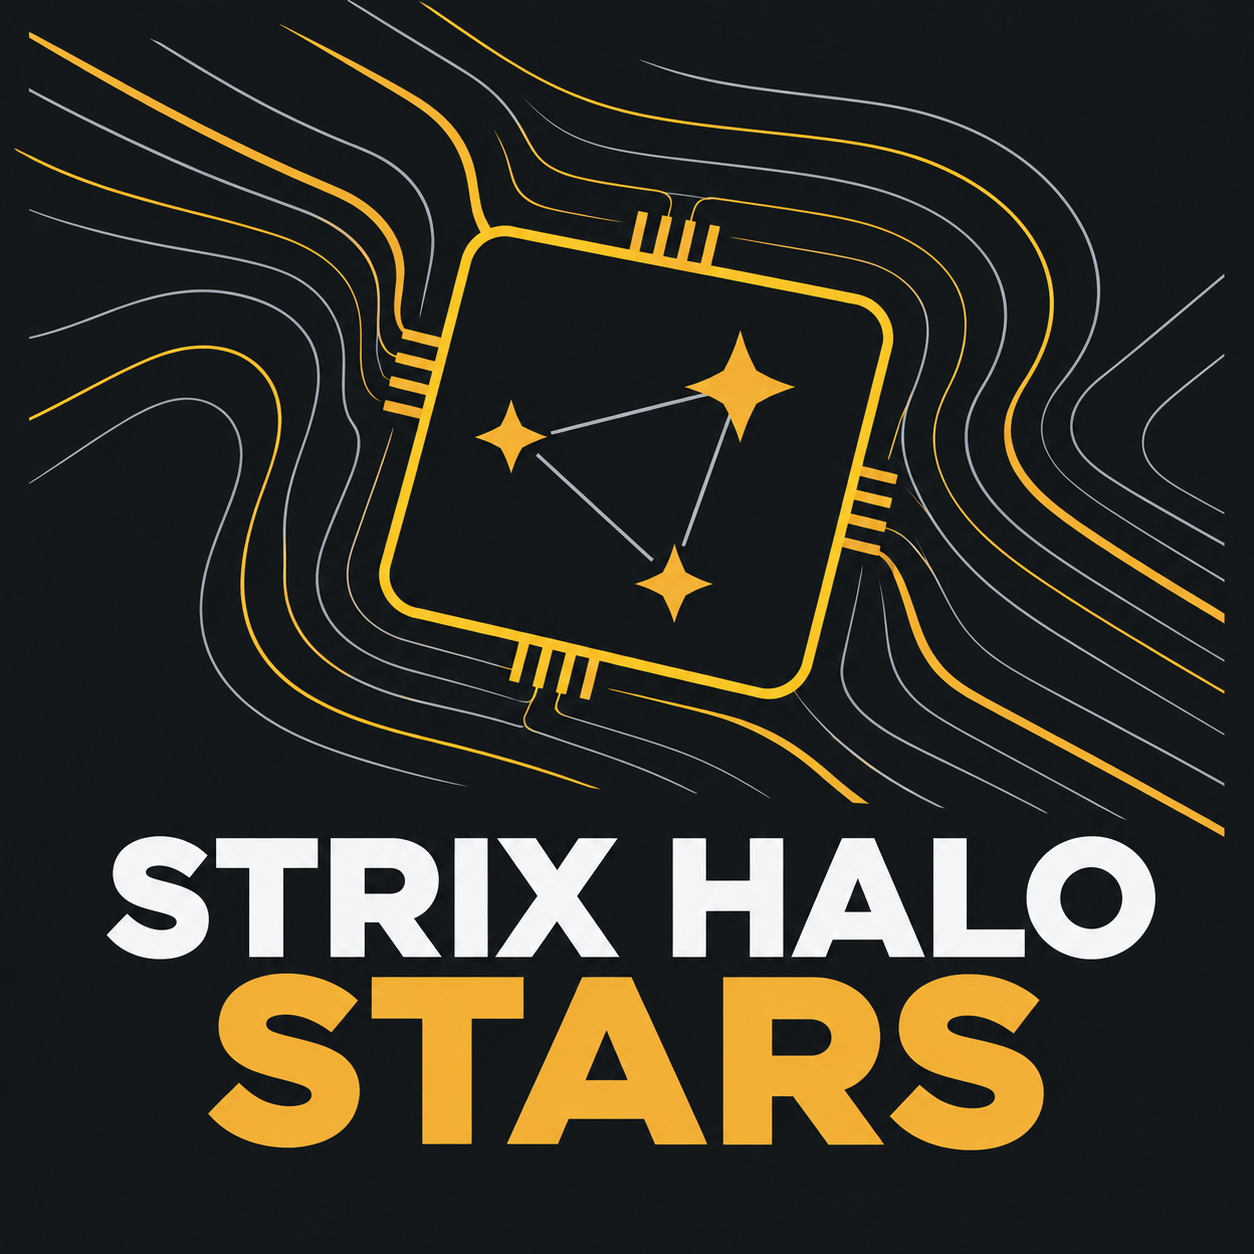
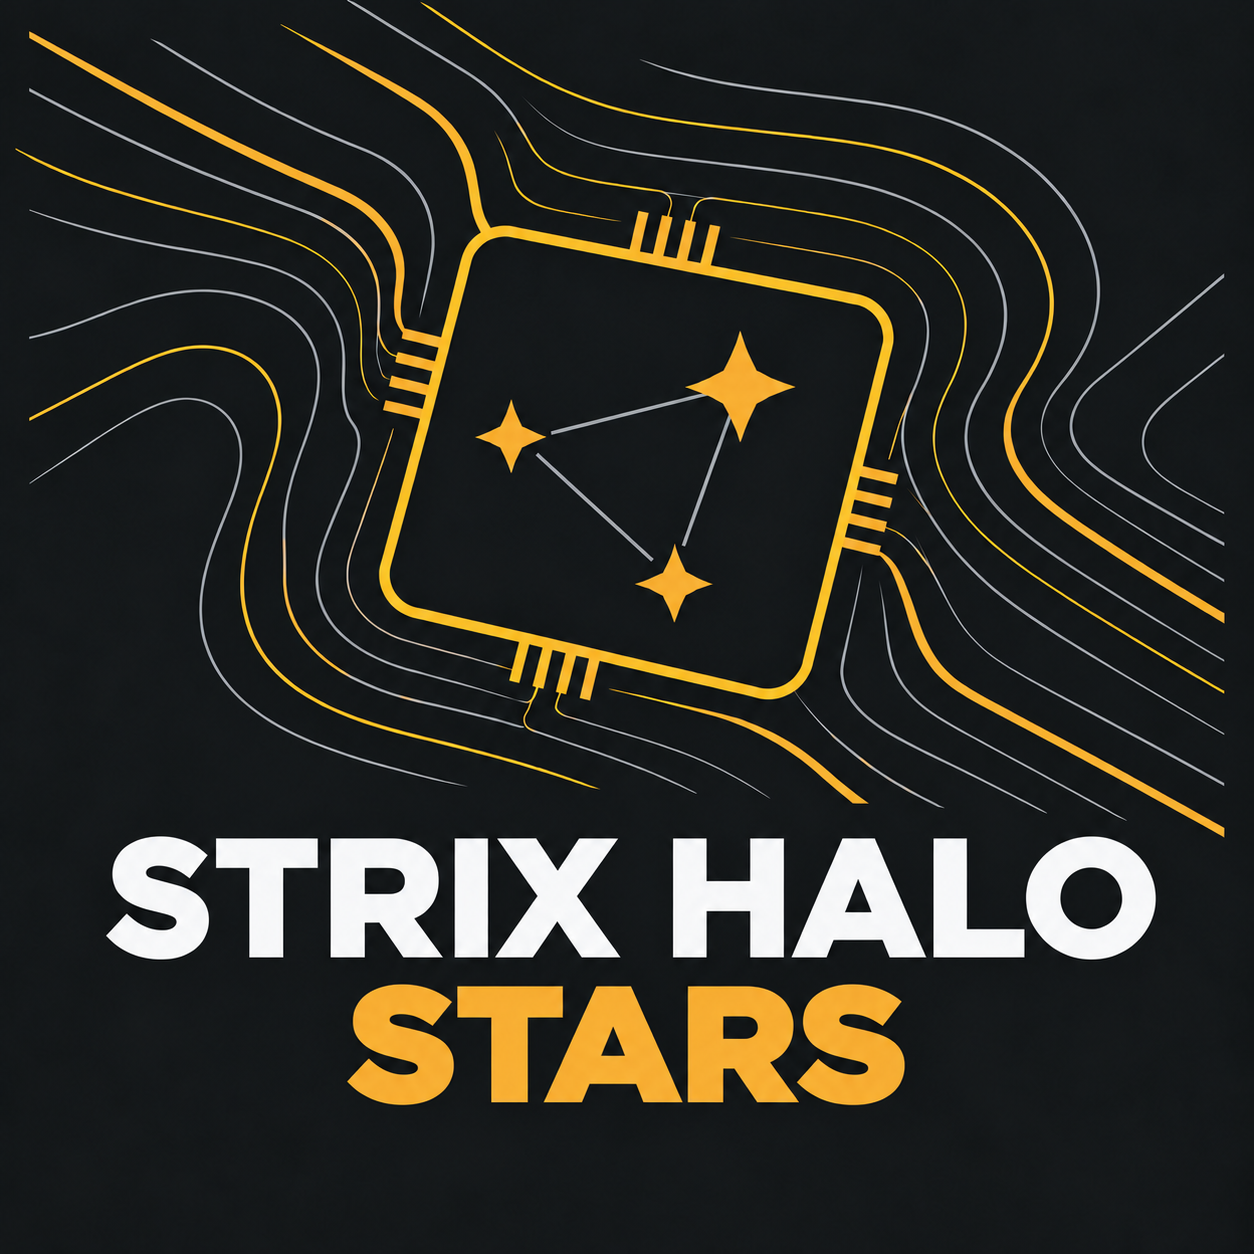
Balance artwork title sizes and simplify coming-soon copy

Changed region(s): [[0.1555, 0.7775, 0.8397, 0.933], [0.2799, 0.2488, 0.311, 0.311], [0.6842, 0.3732, 0.7153, 0.4043]]

diff --git a/docs/index.html b/docs/index.html
@@ -39,17 +39,16 @@
       <section class="episodes ruled-section" id="episodes" aria-labelledby="episodes-title">
         <div class="section-heading">
           <h2 id="episodes-title">Episodes</h2>
-          <p>First conversation coming soon.</p>
         </div>
         <article class="episode" aria-labelledby="episode-001-title">
           <div class="episode-banner" aria-hidden="true">
             <img src="assets/banner-wide.webp" width="2172" height="724" alt="" decoding="async">
           </div>
           <div class="episode-copy">
-            <p class="episode-meta">Episode 1 / In production</p>
+            <p class="episode-meta">Episode 1</p>
             <h3 id="episode-001-title">Donato’s Strix Halo journey</h3>
             <p>Usman Pirzada from AMD interviews me about how I got started, the Toolboxes project, and the community building local AI.</p>
-            <p class="coming-soon">Coming soon. The first episode is being edited.</p>
+            <p class="coming-soon">Coming soon.</p>
           </div>
         </article>
       </section>

diff --git a/README.md b/README.md
@@ -14,7 +14,7 @@ Open http://127.0.0.1:8000. You can also open `docs/index.html` directly.
 
 ## Content and branding
 
-The authoritative podcast workspace is `/home/kyuz0/Documents/Projects/strix-halo-stars-podcast`. Read [`AGENTS.md`](AGENTS.md) before editing. The page currently previews episode 1 as **in production**, with no feed, player, release date, or listening-platform claims.
+The authoritative podcast workspace is `/home/kyuz0/Documents/Projects/strix-halo-stars-podcast`. Read [`AGENTS.md`](AGENTS.md) before editing. The page currently previews episode 1 as **coming soon**, with no feed, player, release date, or listening-platform claims.
 
 `docs/brand.css` mirrors the Toolboxes brand tokens from `/home/kyuz0/Documents/Projects/amd-strix-halo-gfx1151-toolboxes/docs/brand.css`. Layout and responsive rules live in `docs/styles.css`. The selected artwork combines a processor, a three-star constellation and flowing gold/grey traces. The hero uses the text-free square illustration; the episode preview uses the titled wide banner. Generated PNG sources are retained in `artwork/`; the page uses compressed WebPs in `docs/assets/`. Episode numbering stays in HTML metadata rather than being baked into show artwork. The original processor-contour PNG is retained as an earlier source.
 

diff --git a/AGENTS.md b/AGENTS.md
@@ -16,3 +16,7 @@ Before changing content, read that repository’s `AGENTS.md`, `MEMORIES.md`, `p
 Use unpadded public episode numbers: “Episode 1”, “Episode 2”, and so on; banner numerals should be “1”, “2”, etc.
 
 Selected visual identity: `artwork/chip-constellation.png`, combining a gold processor outline, three connected stars and flowing gold/grey traces. Use `artwork/banner-wide.png` for the titled wide version and `docs/assets/cover-square-3000.jpg` for the titled square cover. Preserve the original generated square source; the 3000-pixel JPEG is a resampled export.
+
+Title typography: keep “STARS” gold, with the same font size and capital-letter height as “STRIX HALO”. Do not enlarge it or stretch it to the first line’s width. Apply this to wide and square artwork.
+
+Public-facing copy should contain only useful listener information. Use “Coming soon” for an unreleased episode; keep editing progress, production status and internal workflow details out of the public page. Avoid repeating the same availability message in multiple places.
